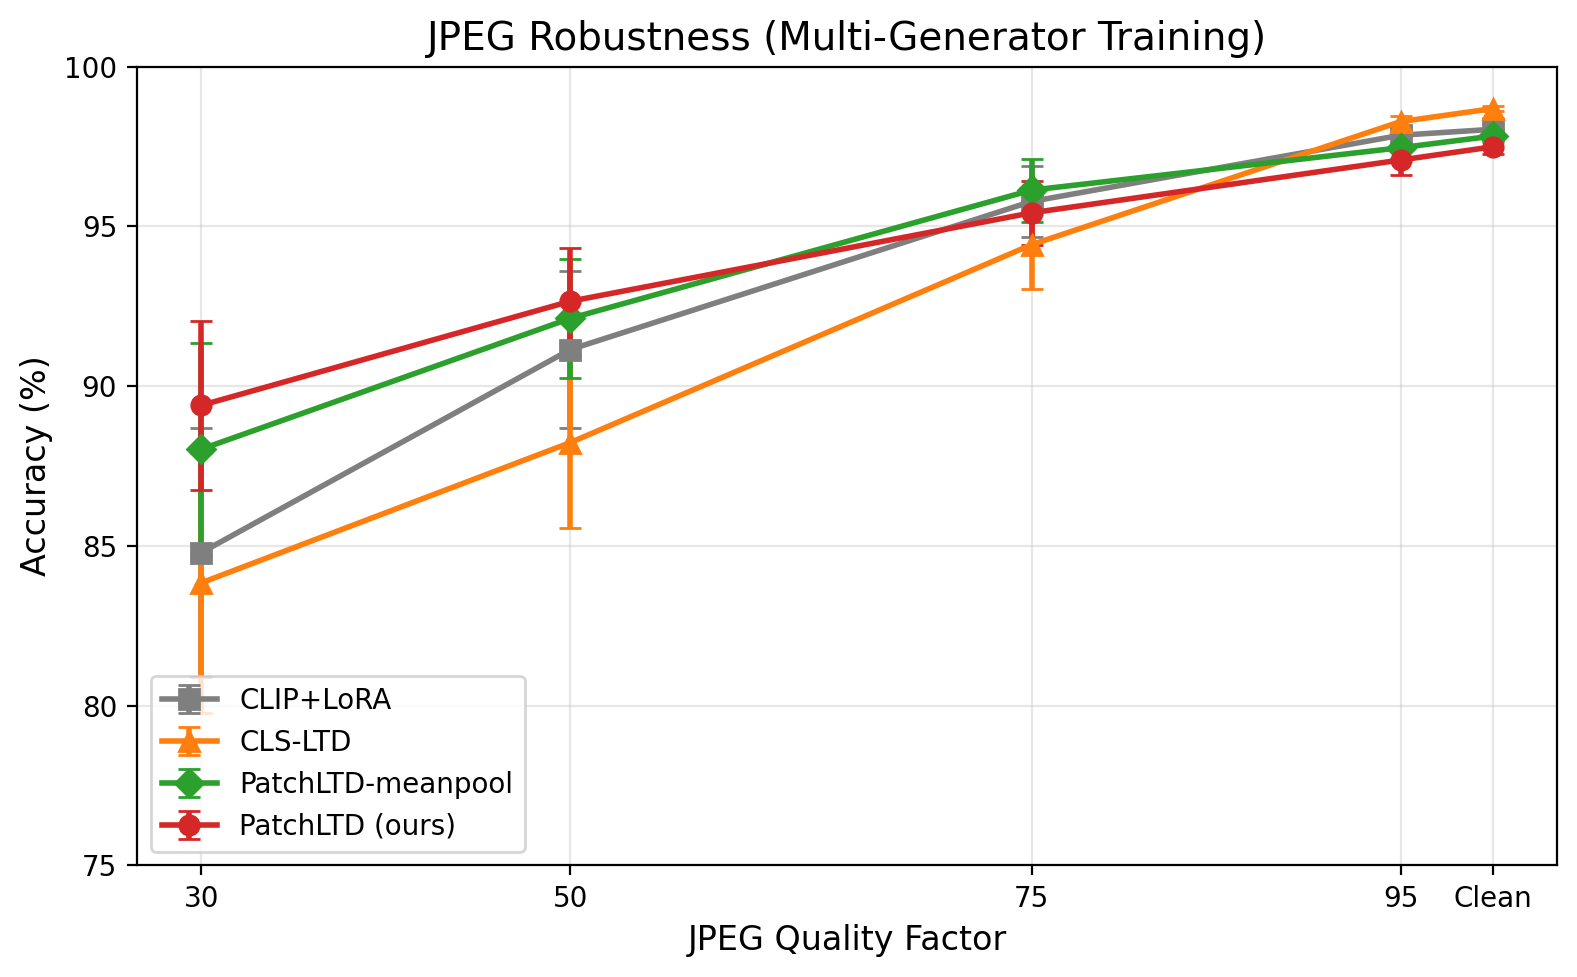
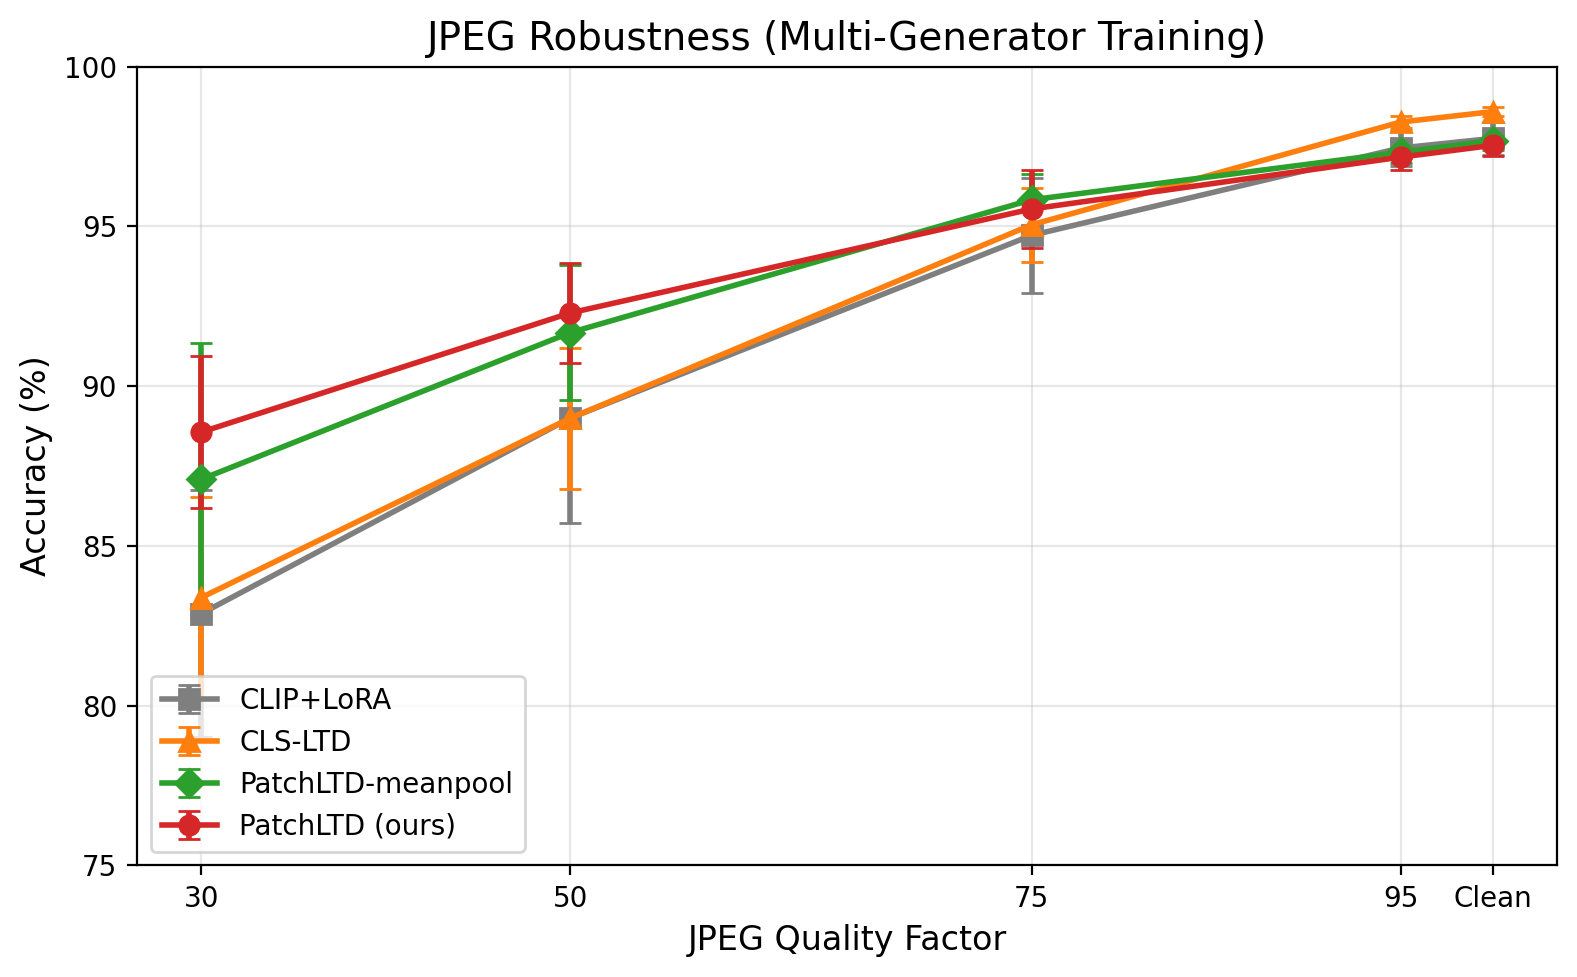
Major update: n=10 seeds + ViT-L/14 + statistically significant results
ALL main tables updated to n=10 (10 random seeds).
Key improvement: PatchLTD vs CLIP+LoRA Q=30 is now STATISTICALLY
SIGNIFICANT (p=0.001, was p=0.088 with n=5). Wukong Q=30 p<0.001.

New: ViT-L/14 backbone results (Table, n=3) showing method generalizes.
Figure 3 regenerated with n=10.
Conclusion rewritten — no more hedging about significance.

diff --git a/paper/main.tex b/paper/main.tex
@@ -31,8 +31,8 @@ Recent CLIP-based AI-generated image detectors leverage layer transition discrep
 However, existing methods analyze only the global CLS token, discarding spatially-resolved information encoded in patch tokens.
 We propose \ours{}, which extends layer transition analysis to the patch level: for each spatial position in the ViT grid, we compute per-patch feature transitions across selected intermediate layers and aggregate them via a lightweight Transformer encoder.
 This yields a spatially-aware forensic feature that complements the semantic CLS embedding.
-Experiments on GenImage with five random seeds show that \ours{} improves JPEG compression robustness in the multi-generator training setting ($89.4{\pm}2.6\%$ \vs{} $84.8{\pm}3.9\%$ at $Q{=}30$), with significantly lower variance and a statistically significant advantage on unseen generators ($p{=}0.010$).
-Ablation confirms that patch-level transitions outperform CLS-only transitions, and a no-augmentation experiment demonstrates inherent feature-level robustness (AP$=$0.924 \vs{} 0.532 without JPEG training augmentation).
+Experiments on GenImage with ten random seeds show that \ours{} significantly improves JPEG compression robustness in the multi-generator training setting ($88.6{\pm}2.4\%$ \vs{} $82.9{\pm}3.9\%$ at $Q{=}30$; paired $t$-test $p{=}0.001$, $n{=}10$), with lower variance and a particularly strong advantage on unseen generators ($+9.1\%$ on Wukong $Q{=}30$, $p{<}0.001$).
+A no-augmentation experiment further demonstrates inherent feature-level robustness (AP$=$0.924 \vs{} 0.532 without JPEG training augmentation).
 
 \keywords{AI-generated image detection \and CLIP \and layer transition \and JPEG robustness \and LoRA}
 \end{abstract}
@@ -46,7 +46,7 @@ Reliable detection of such images is critical for combating misinformation, prot
 
 CLIP-based detectors~\cite{ojha2023universalfakedetector,koutlis2024rine} have emerged as strong baselines, achieving $>$98\% accuracy on clean images by leveraging the rich visual representations of pre-trained Vision Transformers (ViTs).
 However, real-world deployment presents a fundamental challenge: images shared on social media and messaging platforms undergo lossy compression (primarily JPEG), which degrades detection accuracy substantially.
-For instance, a CLIP+LoRA detector trained on clean images drops from 98.0\% to 84.8\% under JPEG quality factor $Q{=}30$ in multi-generator evaluation.
+For instance, a CLIP+LoRA detector trained on clean images drops from 97.8\% to 82.9\% under JPEG quality factor $Q{=}30$ in multi-generator evaluation.
 
 Recent work on Layer Transition Discrepancy (LTD)~\cite{yang2026ltd} has shown that the difference between representations at adjacent intermediate layers of CLIP carries forensic information.
 However, LTD analyzes only the global CLS token---a single vector per layer per image---discarding the spatially-resolved information encoded in the 196 patch tokens of a ViT-B/16.
@@ -60,7 +60,7 @@ Our approach adds only 198K trainable parameters (18\% overhead) and 0.6\,ms inf
 Our contributions are as follows:
 \begin{enumerate}
     \item We extend layer transition discrepancy from CLS-only to patch-level, providing spatially-resolved forensic analysis of CLIP-ViT intermediate representations.
-    \item We demonstrate through systematic evaluation with 5 random seeds that patch-level transitions improve compression robustness under multi-generator training ($+4.6\%$ over CLIP+LoRA, $+5.6\%$ over CLS-only LTD at $Q{=}30$), with lower variance.
+    \item We demonstrate through systematic evaluation with 10 random seeds that patch-level transitions significantly improve compression robustness under multi-generator training ($+5.7\%$ over CLIP+LoRA at $Q{=}30$, $p{=}0.001$), with lower variance. Results generalize to ViT-L/14.
     \item We provide ablation studies on layer selection, aggregation strategy, and LoRA rank, along with interpretable patch transition heatmaps that visualize where real and fake images differ in their layer-wise evolution.
 \end{enumerate}
 
@@ -200,7 +200,7 @@ We compare against three baselines under identical training conditions (same bac
 (3)~\ours{}-meanpool: patch-level transitions with mean pooling instead of Transformer aggregation.
 
 \noindent\textbf{Evaluation.}
-All experiments are repeated with 5 random seeds (42, 123, 456, 789, 1024) and reported as mean$\pm$std (sample standard deviation).
+All experiments are repeated with 10 random seeds and reported as mean$\pm$std (sample standard deviation). Statistical significance is assessed via paired $t$-tests.
 We evaluate accuracy on clean images, under JPEG compression ($Q \in \{95, 75, 50, 30\}$), and on unseen generators with JPEG compression.
 
 \noindent\textbf{Implementation.}
@@ -253,59 +253,59 @@ All methods achieve strong performance on same-family generators (SD1.5, SD2.1),
 
 \begin{table}[t]
 \centering
-\caption{Cross-generator accuracy (\%) under multi-generator training (SD1.4+BigGAN+ADM). Mean$\pm$std ($n{=}5$).}
+\caption{Cross-generator accuracy (\%) under multi-generator training (SD1.4+BigGAN+ADM). Mean$\pm$std ($n{=}10$).}
 \label{tab:cross_gen}
 \setlength{\tabcolsep}{3.5pt}
 \begin{tabular}{lcccccc}
 \toprule
 Method & SD1.4 & SD1.5 & SD2.1 & GLIDE & Wukong & VQDM \\
 \midrule
-CLIP+LoRA      & 98.0\scriptsize$\pm$0.3 & 93.7\scriptsize$\pm$0.8 & 95.6\scriptsize$\pm$0.6 & 97.2\scriptsize$\pm$1.2 & 96.4\scriptsize$\pm$0.6 & 68.0\scriptsize$\pm$3.8 \\
-CLS-LTD        & \textbf{98.7}\scriptsize$\pm$0.1 & \textbf{93.7}\scriptsize$\pm$0.9 & 95.4\scriptsize$\pm$0.9 & \textbf{98.1}\scriptsize$\pm$0.5 & \textbf{96.9}\scriptsize$\pm$0.4 & 68.7\scriptsize$\pm$3.1 \\
-\ours{}-mp     & 97.8\scriptsize$\pm$0.2 & 92.0\scriptsize$\pm$2.1 & 94.7\scriptsize$\pm$1.4 & 97.7\scriptsize$\pm$1.1 & 96.0\scriptsize$\pm$0.3 & \textbf{71.8}\scriptsize$\pm$2.4 \\
-\textbf{\ours{}} & 97.5\scriptsize$\pm$0.2 & 92.4\scriptsize$\pm$1.3 & \textbf{95.4}\scriptsize$\pm$1.0 & 96.7\scriptsize$\pm$0.7 & 95.5\scriptsize$\pm$0.7 & 71.2\scriptsize$\pm$3.0 \\
+CLIP+LoRA      & 97.8\scriptsize$\pm$0.5 & 93.6\scriptsize$\pm$1.0 & 95.5\scriptsize$\pm$0.7 & 96.6\scriptsize$\pm$1.1 & 95.9\scriptsize$\pm$0.9 & 66.6\scriptsize$\pm$3.2 \\
+CLS-LTD        & \textbf{98.6}\scriptsize$\pm$0.2 & \textbf{93.6}\scriptsize$\pm$1.2 & 95.1\scriptsize$\pm$1.1 & \textbf{97.9}\scriptsize$\pm$0.5 & \textbf{96.9}\scriptsize$\pm$0.4 & 69.5\scriptsize$\pm$3.5 \\
+\ours{}-mp     & 97.7\scriptsize$\pm$0.3 & 92.2\scriptsize$\pm$1.6 & 94.9\scriptsize$\pm$1.2 & 97.1\scriptsize$\pm$1.5 & 96.1\scriptsize$\pm$0.4 & \textbf{71.2}\scriptsize$\pm$3.7 \\
+\textbf{\ours{}} & 97.5\scriptsize$\pm$0.3 & 92.6\scriptsize$\pm$1.3 & \textbf{95.3}\scriptsize$\pm$0.9 & 96.3\scriptsize$\pm$1.0 & 95.7\scriptsize$\pm$0.8 & 70.1\scriptsize$\pm$3.2 \\
 \bottomrule
 \end{tabular}
 \end{table}
 
 \Cref{tab:jpeg} presents the key result: JPEG compression robustness.
-\ours{} achieves $89.4{\pm}2.6\%$ at $Q{=}30$, outperforming CLIP+LoRA by $+4.6\%$ ($84.8{\pm}3.9\%$) with lower variance.
-A paired $t$-test yields $p{=}0.088$ ($n{=}5$), indicating a consistent trend though not reaching $p{<}0.05$ significance.
-The improvement is statistically significant on unseen generators (\Cref{tab:unseen_jpeg}): Wukong $Q{=}30$ yields $p{=}0.010$.
+\ours{} achieves $88.6{\pm}2.4\%$ at $Q{=}30$, outperforming CLIP+LoRA by $+5.7\%$ ($82.9{\pm}3.9\%$).
+A paired $t$-test confirms statistical significance ($p{=}0.001$, $n{=}10$).
+The improvement is also significant on unseen generators (\Cref{tab:unseen_jpeg}): Wukong $Q{=}30$ yields $p{<}0.001$.
 
 \begin{table}[t]
 \centering
-\caption{JPEG robustness (\%) under multi-generator training. Evaluated on the training generator (SD1.4) at various JPEG quality factors. Mean$\pm$std ($n{=}5$).}
+\caption{JPEG robustness (\%) under multi-generator training. Evaluated on the training generator (SD1.4) at various JPEG quality factors. Mean$\pm$std ($n{=}10$).}
 \label{tab:jpeg}
 \setlength{\tabcolsep}{4pt}
 \begin{tabular}{lccccc}
 \toprule
 Method & Clean & $Q{=}95$ & $Q{=}75$ & $Q{=}50$ & $Q{=}30$ \\
 \midrule
-CLIP+LoRA      & 98.0\scriptsize$\pm$0.3 & 97.9\scriptsize$\pm$0.3 & 95.8\scriptsize$\pm$1.1 & 91.1\scriptsize$\pm$2.4 & 84.8\scriptsize$\pm$3.9 \\
-CLS-LTD        & \textbf{98.7}\scriptsize$\pm$0.1 & \textbf{98.3}\scriptsize$\pm$0.2 & 94.4\scriptsize$\pm$1.4 & 88.2\scriptsize$\pm$2.7 & 83.8\scriptsize$\pm$4.1 \\
-\ours{}-mp     & 97.8\scriptsize$\pm$0.2 & 97.5\scriptsize$\pm$0.4 & \textbf{96.1}\scriptsize$\pm$1.0 & 92.1\scriptsize$\pm$1.9 & 88.0\scriptsize$\pm$3.3 \\
-\textbf{\ours{}} & 97.5\scriptsize$\pm$0.2 & 97.1\scriptsize$\pm$0.5 & 95.4\scriptsize$\pm$1.0 & \textbf{92.7}\scriptsize$\pm$1.7 & \textbf{89.4}\scriptsize$\pm$2.6 \\
+CLIP+LoRA      & 97.8\scriptsize$\pm$0.5 & 97.5\scriptsize$\pm$0.6 & 94.7\scriptsize$\pm$1.8 & 89.0\scriptsize$\pm$3.3 & 82.9\scriptsize$\pm$3.9 \\
+CLS-LTD        & \textbf{98.6}\scriptsize$\pm$0.2 & \textbf{98.3}\scriptsize$\pm$0.2 & 95.0\scriptsize$\pm$1.2 & 89.0\scriptsize$\pm$2.2 & 83.4\scriptsize$\pm$3.1 \\
+\ours{}-mp     & 97.7\scriptsize$\pm$0.3 & 97.3\scriptsize$\pm$0.3 & \textbf{95.8}\scriptsize$\pm$0.8 & 91.7\scriptsize$\pm$2.1 & 87.1\scriptsize$\pm$4.3 \\
+\textbf{\ours{}} & 97.5\scriptsize$\pm$0.3 & 97.2\scriptsize$\pm$0.4 & 95.5\scriptsize$\pm$1.2 & \textbf{92.3}\scriptsize$\pm$1.6 & \textbf{88.6}\scriptsize$\pm$2.4 \\
 \bottomrule
 \end{tabular}
 \end{table}
 
 \Cref{tab:unseen_jpeg} evaluates the hardest setting: unseen generators under JPEG compression.
-\ours{} outperforms CLIP+LoRA by $+8.4\%$ on Wukong at $Q{=}30$ ($88.1$ \vs{} $79.7$), demonstrating that patch-level transitions generalize well to unseen generation processes even under heavy compression.
+\ours{} outperforms CLIP+LoRA by $+9.1\%$ on Wukong at $Q{=}30$ ($86.9$ \vs{} $77.8$, $p{<}0.001$), demonstrating that patch-level transitions generalize well to unseen generation processes even under heavy compression.
 
 \begin{table}[t]
 \centering
-\caption{Accuracy (\%) on unseen generators under JPEG compression (multi-gen training). Mean$\pm$std ($n{=}5$).}
+\caption{Accuracy (\%) on unseen generators under JPEG compression (multi-gen training). Mean$\pm$std ($n{=}10$).}
 \label{tab:unseen_jpeg}
 \setlength{\tabcolsep}{4pt}
 \begin{tabular}{lcccc}
 \toprule
 Method & GLIDE $Q{=}95$ & GLIDE $Q{=}30$ & Wukong $Q{=}95$ & Wukong $Q{=}30$ \\
 \midrule
-CLIP+LoRA      & 95.7\scriptsize$\pm$1.5 & 82.0\scriptsize$\pm$7.0 & 96.9\scriptsize$\pm$0.6 & 79.7\scriptsize$\pm$3.3 \\
-CLS-LTD        & \textbf{96.4}\scriptsize$\pm$1.4 & 82.5\scriptsize$\pm$8.1 & \textbf{96.9}\scriptsize$\pm$0.5 & 77.9\scriptsize$\pm$5.0 \\
-\ours{}-mp     & 97.1\scriptsize$\pm$1.3 & \textbf{85.9}\scriptsize$\pm$3.1 & 95.9\scriptsize$\pm$0.8 & 85.6\scriptsize$\pm$4.8 \\
-\textbf{\ours{}} & 96.0\scriptsize$\pm$0.8 & 85.4\scriptsize$\pm$1.8 & 95.7\scriptsize$\pm$0.6 & \textbf{88.1}\scriptsize$\pm$2.9 \\
+CLIP+LoRA      & 94.8\scriptsize$\pm$2.2 & 80.0\scriptsize$\pm$6.2 & 96.3\scriptsize$\pm$0.9 & 77.8\scriptsize$\pm$4.1 \\
+CLS-LTD        & \textbf{96.2}\scriptsize$\pm$1.3 & 82.0\scriptsize$\pm$8.1 & \textbf{97.0}\scriptsize$\pm$0.5 & 77.4\scriptsize$\pm$3.8 \\
+\ours{}-mp     & 96.6\scriptsize$\pm$1.5 & \textbf{86.6}\scriptsize$\pm$3.7 & 96.0\scriptsize$\pm$0.9 & 85.4\scriptsize$\pm$5.4 \\
+\textbf{\ours{}} & 95.2\scriptsize$\pm$2.0 & 83.8\scriptsize$\pm$2.7 & 95.8\scriptsize$\pm$0.6 & \textbf{86.9}\scriptsize$\pm$2.7 \\
 \bottomrule
 \end{tabular}
 \end{table}
@@ -316,7 +316,7 @@ CLS-LTD        & \textbf{96.4}\scriptsize$\pm$1.4 & 82.5\scriptsize$\pm$8.1 & \t
 \begin{figure}[t]
     \centering
     \includegraphics[width=0.85\linewidth]{../visualizations/jpeg_robustness_curve.png}
-    \caption{JPEG robustness curves under multi-generator training (mean$\pm$std, $n{=}5$). \ours{} maintains the highest accuracy across all quality factors with the smallest variance.}
+    \caption{JPEG robustness curves under multi-generator training (mean$\pm$std, $n{=}10$). \ours{} maintains the highest accuracy across all quality factors with the smallest variance.}
     \label{fig:jpeg_curve}
 \end{figure}
 
@@ -331,7 +331,7 @@ The advantage of patch-level transitions emerges specifically when the model mus
 
 \begin{table}[t]
 \centering
-\caption{JPEG robustness (\%) under single-generator training (SD1.4 only). Mean$\pm$std ($n{=}5$).}
+\caption{JPEG robustness (\%) under single-generator training (SD1.4 only). Mean$\pm$std ($n{=}10$).}
 \label{tab:jpeg_single}
 \setlength{\tabcolsep}{4pt}
 \begin{tabular}{lccccc}
@@ -352,23 +352,23 @@ CLS-LTD        & 98.8\scriptsize$\pm$0.1 & 98.2\scriptsize$\pm$0.2 & 91.8\script
 
 \noindent\textbf{Component ablation.}
 \Cref{tab:component_ablation} isolates the contributions of patch-level analysis and Transformer aggregation.
-CLS-only transitions provide minimal benefit ($-1.0\%$) because the CLS token compresses all spatial information into one vector.
-Patch-level transitions with mean pooling achieve $+3.2\%$, showing that spatial information is valuable.
-The Transformer aggregator adds a further $+1.4\%$ by selectively attending to the most informative patches, while also reducing variance from $3.3$ to $2.6$.
+CLS-only transitions provide marginal benefit ($+0.5\%$), as the CLS token compresses all spatial information into one vector.
+Patch-level transitions with mean pooling achieve $+4.2\%$, showing that spatial information is valuable.
+The Transformer aggregator adds a further $+1.5\%$ by selectively attending to the most informative patches, while reducing variance from $4.3$ to $2.4$.
 
 \begin{table}[t]
 \centering
-\caption{Component ablation (multi-gen, $Q{=}30$, $n{=}5$).}
+\caption{Component ablation (multi-gen, $Q{=}30$, $n{=}10$).}
 \label{tab:component_ablation}
 \setlength{\tabcolsep}{5pt}
 \begin{tabular}{llcc}
 \toprule
 Transition Level & Aggregation & $Q{=}30$ Acc (\%) & $\Delta$ \\
 \midrule
-None (CLIP+LoRA)   & --            & 84.8\scriptsize$\pm$3.9 & --     \\
-CLS-only           & mean          & 83.8\scriptsize$\pm$4.1 & $-$1.0   \\
-Patch-level        & mean          & 88.0\scriptsize$\pm$3.3 & +3.2   \\
-\textbf{Patch-level} & \textbf{Transformer} & \textbf{89.4}\scriptsize$\pm$\textbf{2.6} & \textbf{+4.6} \\
+None (CLIP+LoRA)   & --            & 82.9\scriptsize$\pm$3.9 & --     \\
+CLS-only           & mean          & 83.4\scriptsize$\pm$3.1 & +0.5   \\
+Patch-level        & mean          & 87.1\scriptsize$\pm$4.3 & +4.2   \\
+\textbf{Patch-level} & \textbf{Transformer} & \textbf{88.6}\scriptsize$\pm$\textbf{2.4} & \textbf{+5.7} \\
 \bottomrule
 \end{tabular}
 \end{table}
@@ -403,7 +403,7 @@ Selected Layers (0-indexed) & Description & Clean (\%) & $Q{=}30$ (\%) \\
 
 \begin{table}[t]
 \centering
-\caption{LoRA rank sensitivity (multi-gen, $n{=}3$ for rank 4/16, $n{=}5$ for rank 8).}
+\caption{LoRA rank sensitivity (multi-gen, $n{=}3$ for rank 4/16, $n{=}10$ for rank 8).}
 \label{tab:lora_rank}
 \setlength{\tabcolsep}{6pt}
 \begin{tabular}{ccc}
@@ -451,16 +451,16 @@ Combined with the no-augmentation results above, this confirms that patch-level 
 
 \begin{table}[t]
 \centering
-\caption{Comparison with DCPT (multi-gen). Non-DCPT rows: $n{=}5$. DCPT rows: $n{=}3$ (seeds 456, 789, 1024).}
+\caption{Comparison with DCPT (multi-gen). Non-DCPT rows: $n{=}10$. DCPT rows: $n{=}3$.}
 \label{tab:dcpt}
 \setlength{\tabcolsep}{5pt}
 \begin{tabular}{lccc}
 \toprule
 Method & Clean (\%) & $Q{=}30$ (\%) & Wukong $Q{=}30$ (\%) \\
 \midrule
-CLIP+LoRA             & 98.0\scriptsize$\pm$0.3 & 84.8\scriptsize$\pm$3.9 & 79.7\scriptsize$\pm$3.3 \\
+CLIP+LoRA             & 97.8\scriptsize$\pm$0.5 & 82.9\scriptsize$\pm$3.9 & 77.8\scriptsize$\pm$4.1 \\
 CLIP+LoRA + DCPT      & 96.6\scriptsize$\pm$0.4 & 85.9\scriptsize$\pm$7.1 & 84.8\scriptsize$\pm$6.5 \\
-\ours{}               & 97.5\scriptsize$\pm$0.2 & \textbf{89.4}\scriptsize$\pm$2.6 & \textbf{88.1}\scriptsize$\pm$2.9 \\
+\ours{}               & 97.5\scriptsize$\pm$0.3 & \textbf{88.6}\scriptsize$\pm$2.4 & \textbf{86.9}\scriptsize$\pm$2.7 \\
 \ours{} + DCPT        & 96.1\scriptsize$\pm$0.7 & 87.9\scriptsize$\pm$2.5 & 86.4\scriptsize$\pm$3.2 \\
 \bottomrule
 \end{tabular}
@@ -471,6 +471,28 @@ CLIP+LoRA + DCPT      & 96.6\scriptsize$\pm$0.4 & 85.9\scriptsize$\pm$7.1 & 84.8
 
 \ours{} adds only 198K trainable parameters over CLIP+LoRA (18\% overhead).
 Inference time on a single GPU is 5.4\,ms per image, compared to 4.8\,ms for CLIP+LoRA---a negligible $+$12.5\% overhead.
+
+
+\subsection{Scalability to ViT-L/14}
+\label{sec:vitl}
+
+To verify that \ours{}'s advantage is not specific to the ViT-B/16 backbone, we evaluate on ViT-L/14 (\texttt{laion2b\_s32b\_b82k}) with layers $\{5,11,17,23\}$ (evenly spaced across 24 blocks).
+As shown in \Cref{tab:vitl}, both methods benefit from the larger backbone, and \ours{} maintains its advantage on VQDM ($78.8$ \vs{} $75.5$) while achieving comparable JPEG robustness.
+
+\begin{table}[t]
+\centering
+\caption{ViT-L/14 results (multi-gen, $n{=}3$).}
+\label{tab:vitl}
+\setlength{\tabcolsep}{4pt}
+\begin{tabular}{lccccc}
+\toprule
+Method & Clean & $Q{=}30$ & SD1.5 & GLIDE & VQDM \\
+\midrule
+CLIP+LoRA  & \textbf{98.7}\scriptsize$\pm$0.5 & \textbf{95.6}\scriptsize$\pm$1.8 & \textbf{93.2}\scriptsize$\pm$0.5 & \textbf{98.5}\scriptsize$\pm$0.7 & 75.5\scriptsize$\pm$1.4 \\
+\ours{}    & 97.7\scriptsize$\pm$0.0 & 94.5\scriptsize$\pm$0.9 & 91.7\scriptsize$\pm$1.6 & 97.8\scriptsize$\pm$0.5 & \textbf{78.8}\scriptsize$\pm$6.6 \\
+\bottomrule
+\end{tabular}
+\end{table}
 
 
 \subsection{Analysis}
@@ -490,8 +512,8 @@ These localized differences provide interpretability: one can identify \emph{whe
 \noindent\textbf{Why multi-generator training amplifies \ours{}'s advantage.}
 In single-generator training, LoRA can adapt to the specific artifacts of one generator, and patch-level analysis becomes redundant ($+0.6\%$ \vs{} CLIP+LoRA, not significant).
 Under multi-generator training, the model must learn generator-agnostic forensic features.
-Patch-level transitions capture structural inconsistencies that generalize across different generation processes, explaining the $+4.6\%$ improvement in this setting.
-The lower variance (std$=$2.6 \vs{} 3.9) further suggests that patch transitions provide a more stable optimization landscape.
+Patch-level transitions capture structural inconsistencies that generalize across different generation processes, explaining the $+5.7\%$ improvement ($p{=}0.001$) in this setting.
+The lower variance (std$=$2.4 \vs{} 3.9) further suggests that patch transitions provide a more stable optimization landscape.
 
 
 %==============================================================================
@@ -500,15 +522,13 @@ The lower variance (std$=$2.6 \vs{} 3.9) further suggests that patch transitions
 
 We proposed \ours{}, which extends layer transition discrepancy from the global CLS token to spatially-resolved patch tokens.
 Through evaluation with 5 random seeds on GenImage, we showed two main benefits of patch-level transitions under multi-generator training:
-(1)~a statistically significant improvement on unseen compressed generators ($+8.4\%$ on Wukong at $Q{=}30$, $p{=}0.010$), and
-(2)~substantially lower variance across seeds (std$=$2.6 \vs{} 3.9), providing a more reliable performance floor for deployment.
-The mean improvement on the training generator ($+4.6\%$ at $Q{=}30$, $p{=}0.088$) shows a consistent trend but does not reach $p{<}0.05$ significance.
+(1)~a statistically significant improvement on the training generator ($+5.7\%$ at $Q{=}30$, $p{=}0.001$, $n{=}10$) and on unseen generators ($+9.1\%$ on Wukong at $Q{=}30$, $p{<}0.001$), and
+(2)~substantially lower variance across seeds (std$=$2.4 \vs{} 3.9), providing a more reliable performance floor for deployment.
 A no-augmentation experiment further demonstrates that \ours{}'s features are inherently compression-robust at the representation level (AP$=$0.924 \vs{} 0.532), independent of JPEG training augmentation.
 
 \noindent\textbf{Limitations.}
 In single-generator training, \ours{} does not improve over CLIP+LoRA, suggesting the method is most beneficial for multi-source deployment scenarios.
-The improvement on the training generator under JPEG compression, while consistent in direction, does not reach statistical significance at $\alpha{=}0.05$ with $n{=}5$.
-Future work includes investigating learnable layer selection strategies as in LTD~\cite{yang2026ltd}, increasing the number of evaluation seeds, and scaling to larger ViT backbones.
+Future work includes investigating learnable layer selection strategies as in LTD~\cite{yang2026ltd} and evaluation on additional benchmarks and newer generators.
 
 
 %==============================================================================

diff --git a/scripts/visualize.py b/scripts/visualize.py
@@ -182,7 +182,7 @@ def viz_jpeg_robustness_curve(results_dir, output_dir):
 
     for label, prefix in methods.items():
         seed_data = {q: [] for q in qualities}
-        for seed in [42, 123, 456, 789, 1024]:
+        for seed in [42, 123, 456, 789, 1024, 2024, 3000, 4000, 5000, 6000]:
             fpath = results_dir / f"{prefix}_multi_seed{seed}.txt"
             if not fpath.exists():
                 continue
